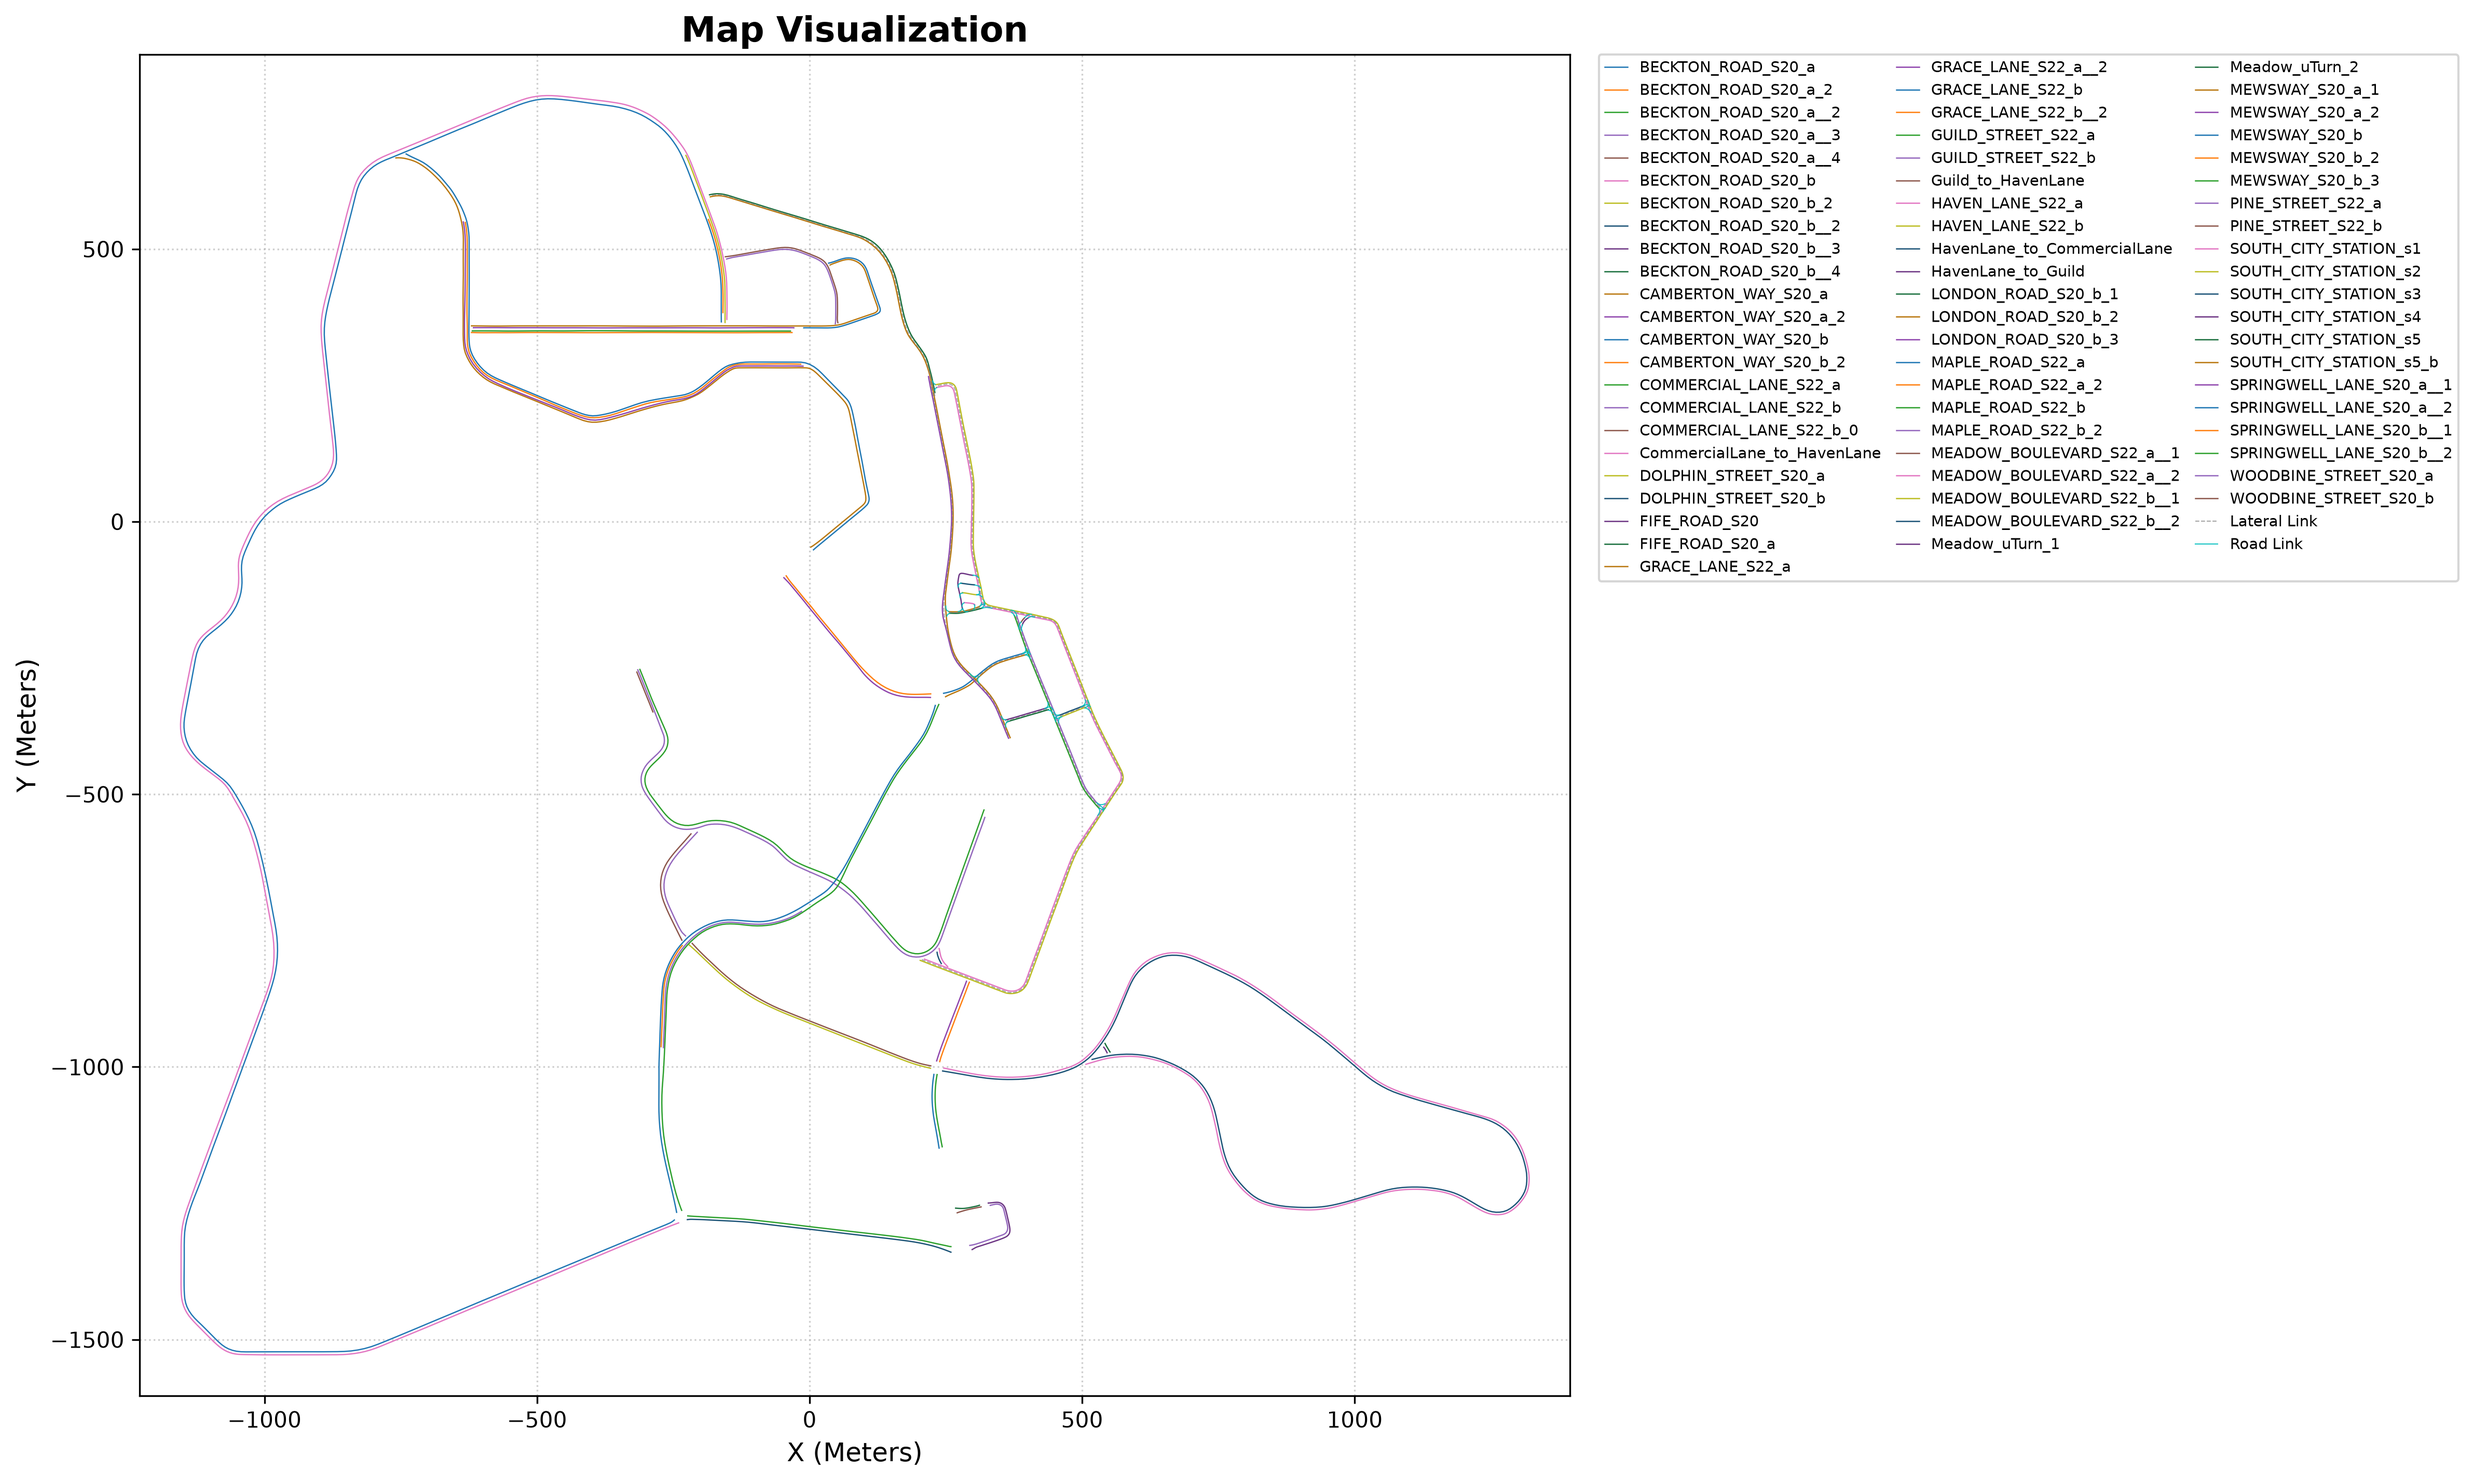
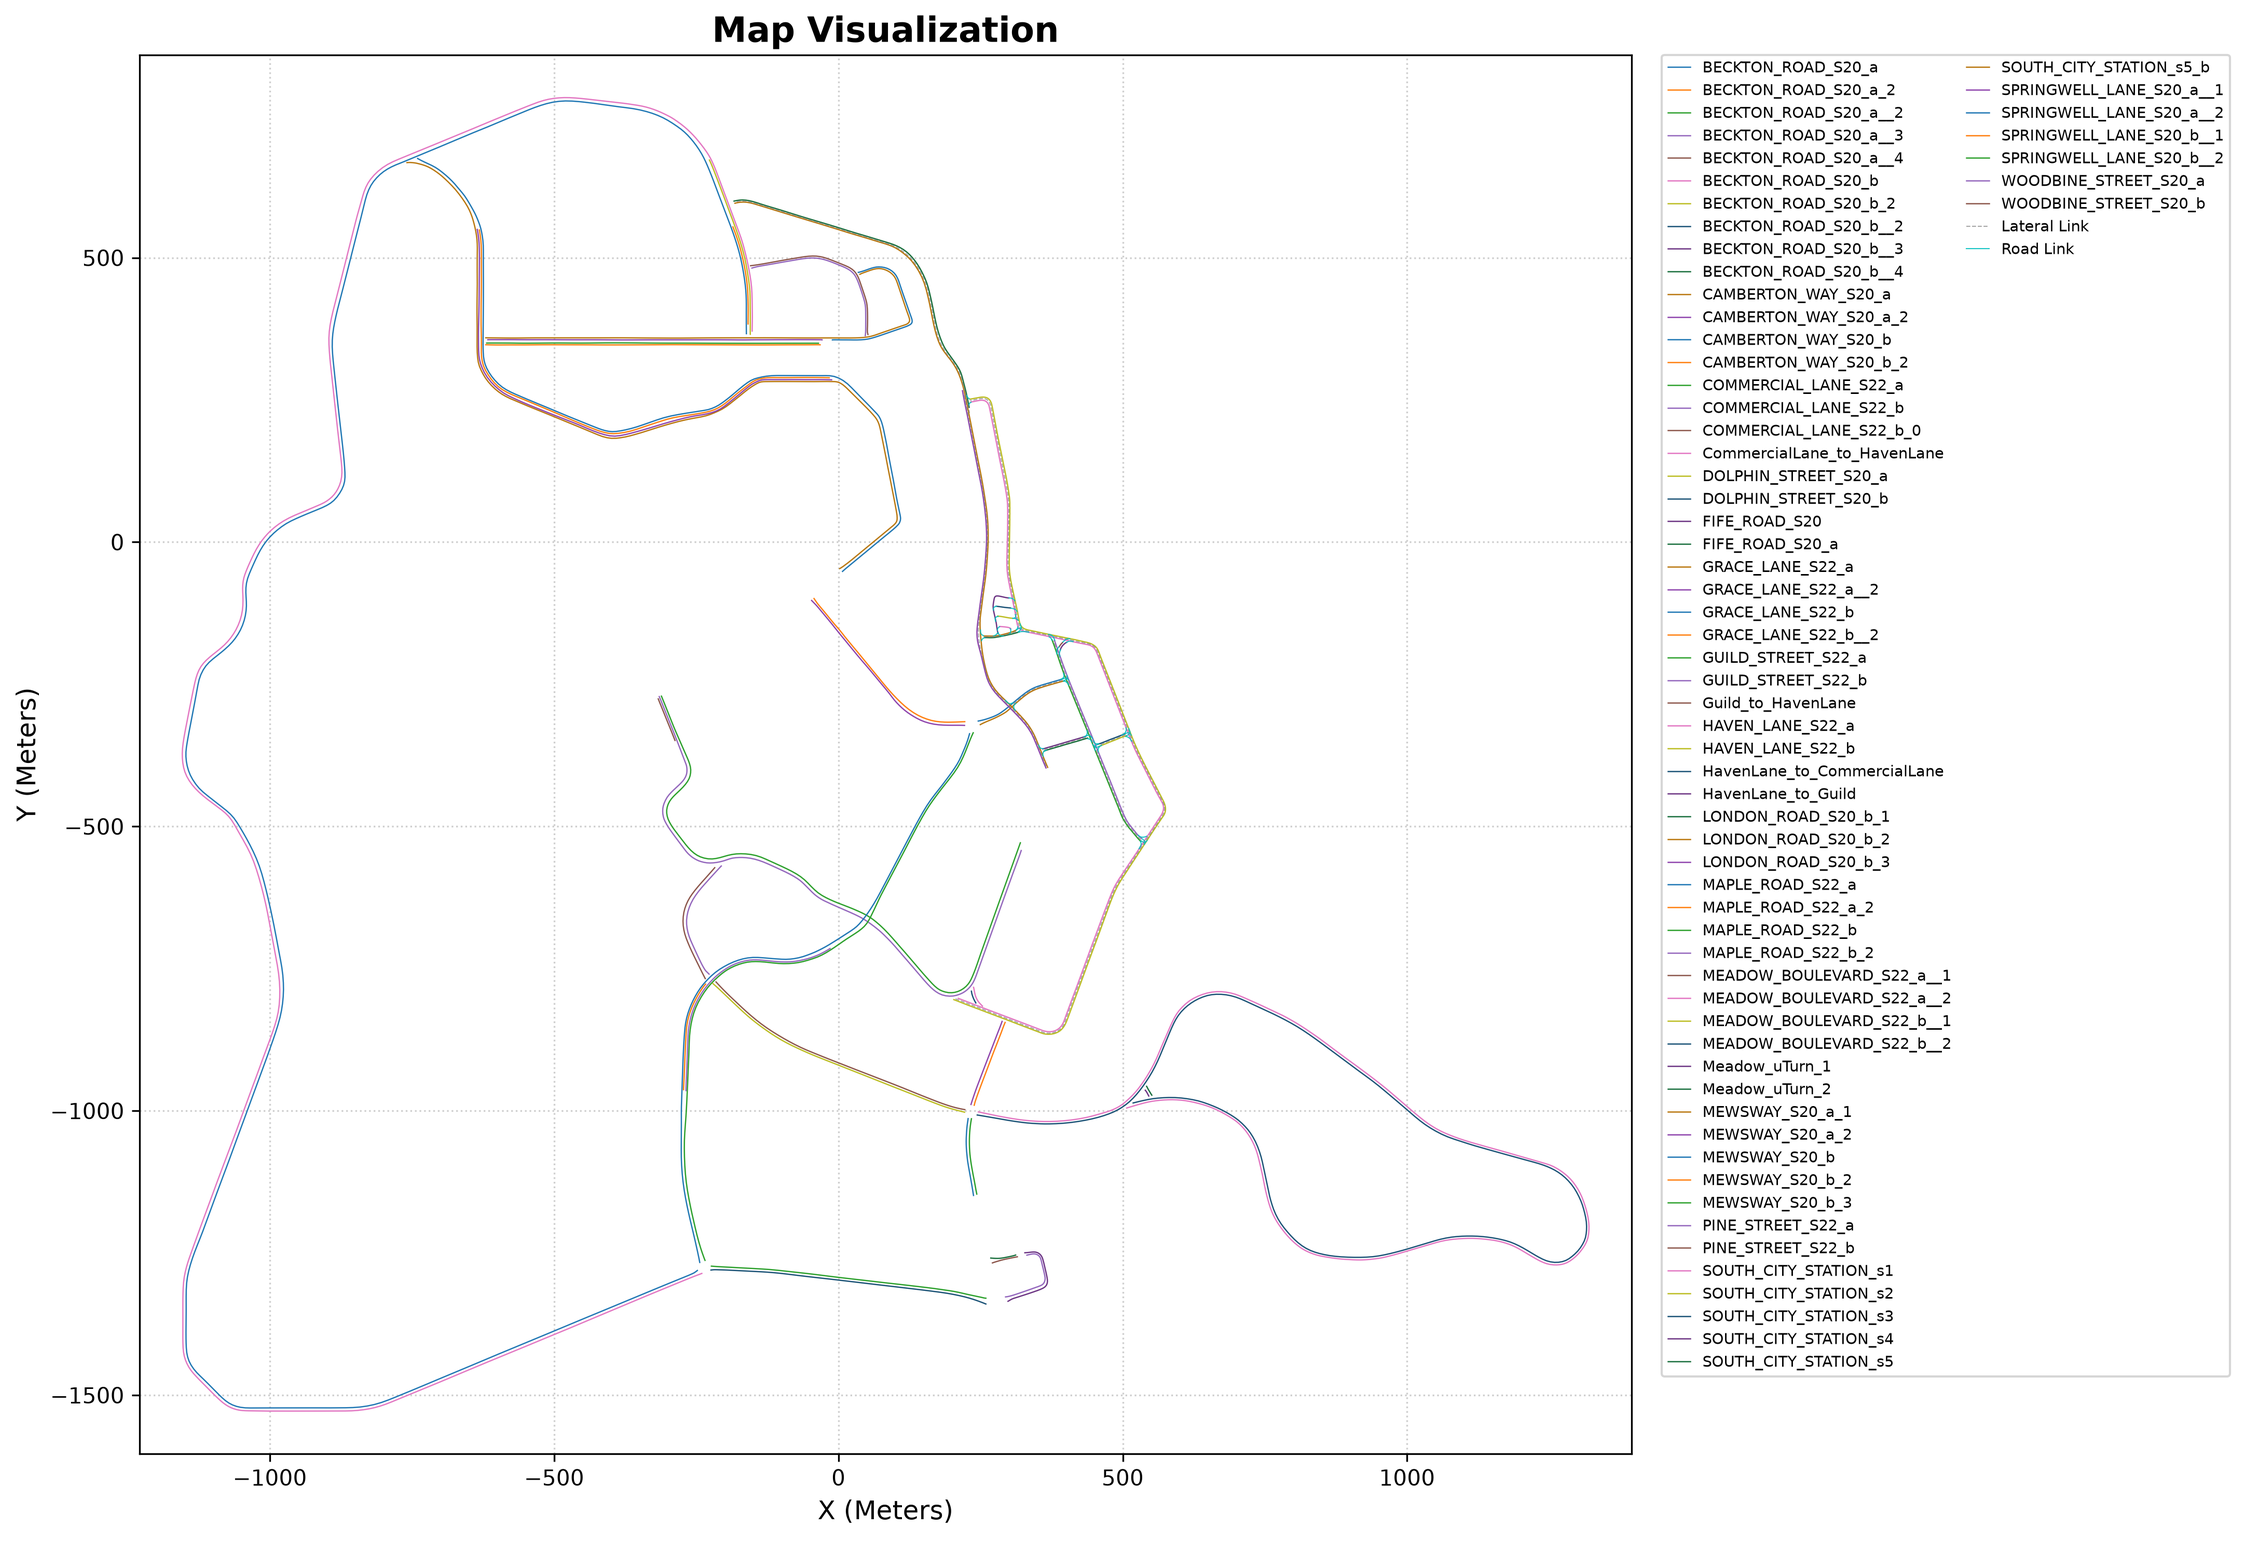
feat(ai_control): leyenda con columnas de la altura del mapa
Cada columna de la leyenda baja EXACTAMENTE lo que baja el mapa: se apilan
nombres hasta el fondo del mapa y solo entonces se abre la siguiente columna
(antes el corte era fijo, max_rows=30, y dejaba columnas más cortas que el mapa).

El nº de filas por columna se MIDE sobre un render de sondeo (alto del recuadro
del mapa / alto de una entrada), en vez de estimarlo. Como matplotlib equilibra
las columnas por su cuenta, se fuerza el llenado columna-a-columna rellenando la
última con entradas invisibles. Renders regenerados: south_city → 2 columnas
(la 1ª llena hasta el fondo), south_drift_1 → 1 columna (sus ~22 entradas caben).

diff --git a/insims/ai_control/nav_modes/freeroam/map_renderer.py b/insims/ai_control/nav_modes/freeroam/map_renderer.py
@@ -9,6 +9,7 @@ import matplotlib
 matplotlib.use("Agg")
 import matplotlib.patches as patches
 import matplotlib.pyplot as plt
+from matplotlib.lines import Line2D
 
 logger = logging.getLogger(__name__)
 
@@ -215,24 +216,54 @@ def generate_map_image(json_path: str):
     ax.set_ylabel("Y (Meters)", fontsize=12)
     ax.grid(True, linestyle=":", alpha=0.6)
 
-    # Leyenda a la derecha pero MULTI-COLUMNA, para que su alto ≈ el del mapa y
-    # no lo aplaste (el problema con mapas de decenas de roads). Fuente reducida.
+    # Leyenda a la derecha: cada COLUMNA baja EXACTAMENTE lo que baja el mapa —
+    # se apilan nombres hacia abajo hasta llegar al fondo del mapa y solo a partir
+    # de ahí se abre la siguiente columna. El nº de filas por columna se MIDE sobre
+    # un render real (alto del recuadro del mapa / alto de una entrada), no se
+    # estima. matplotlib reparte las columnas de forma equilibrada por su cuenta;
+    # para forzar el llenado columna-a-columna (primera columna llena hasta el
+    # fondo, luego la siguiente) se rellena la última con entradas invisibles.
+    fig.tight_layout()
     handles, labels = ax.get_legend_handles_labels()
     if handles:
-        max_rows = 30
-        ncol = max(1, math.ceil(len(labels) / max_rows))
-        ax.legend(
-            handles,
-            labels,
-            bbox_to_anchor=(1.02, 1),
+        legend_fontsize = 7
+        legend_kwargs = dict(
             loc="upper left",
+            bbox_to_anchor=(1.02, 1),
             borderaxespad=0.0,
+            fontsize=legend_fontsize,
+        )
+        # Medición: alto del recuadro del mapa y alto de UNA entrada de leyenda
+        # (probe a 1 columna). El ratio es independiente del dpi.
+        fig.canvas.draw()
+        pad_px = 0.4 * legend_fontsize * fig.dpi / 72.0  # borderpad (arriba+abajo)
+        axes_h = ax.get_window_extent().height
+        probe = ax.legend(handles, labels, ncol=1, **legend_kwargs)
+        fig.canvas.draw()
+        per_entry = max(
+            1.0, (probe.get_window_extent().height - 2 * pad_px) / len(labels)
+        )
+
+        rows_per_col = max(1, int((axes_h - 2 * pad_px) // per_entry))
+        ncol = max(1, math.ceil(len(labels) / rows_per_col))
+
+        # Con ≥2 columnas, rellenar hasta ncol*rows_per_col con entradas invisibles
+        # para que cada columna se llene hasta el fondo del mapa antes de saltar a
+        # la siguiente (si no, matplotlib equilibraría columnas más cortas).
+        h_full, l_full = list(handles), list(labels)
+        if ncol > 1:
+            while len(h_full) < ncol * rows_per_col:
+                h_full.append(Line2D([], [], color="none"))
+                l_full.append(" ")
+
+        ax.legend(
+            h_full,
+            l_full,
             ncol=ncol,
-            fontsize=7,
             handlelength=1.5,
             columnspacing=1.0,
+            **legend_kwargs,
         )
-    fig.tight_layout()
 
     # 7. Save to disk
     script_dir = os.path.dirname(os.path.abspath(__file__))
